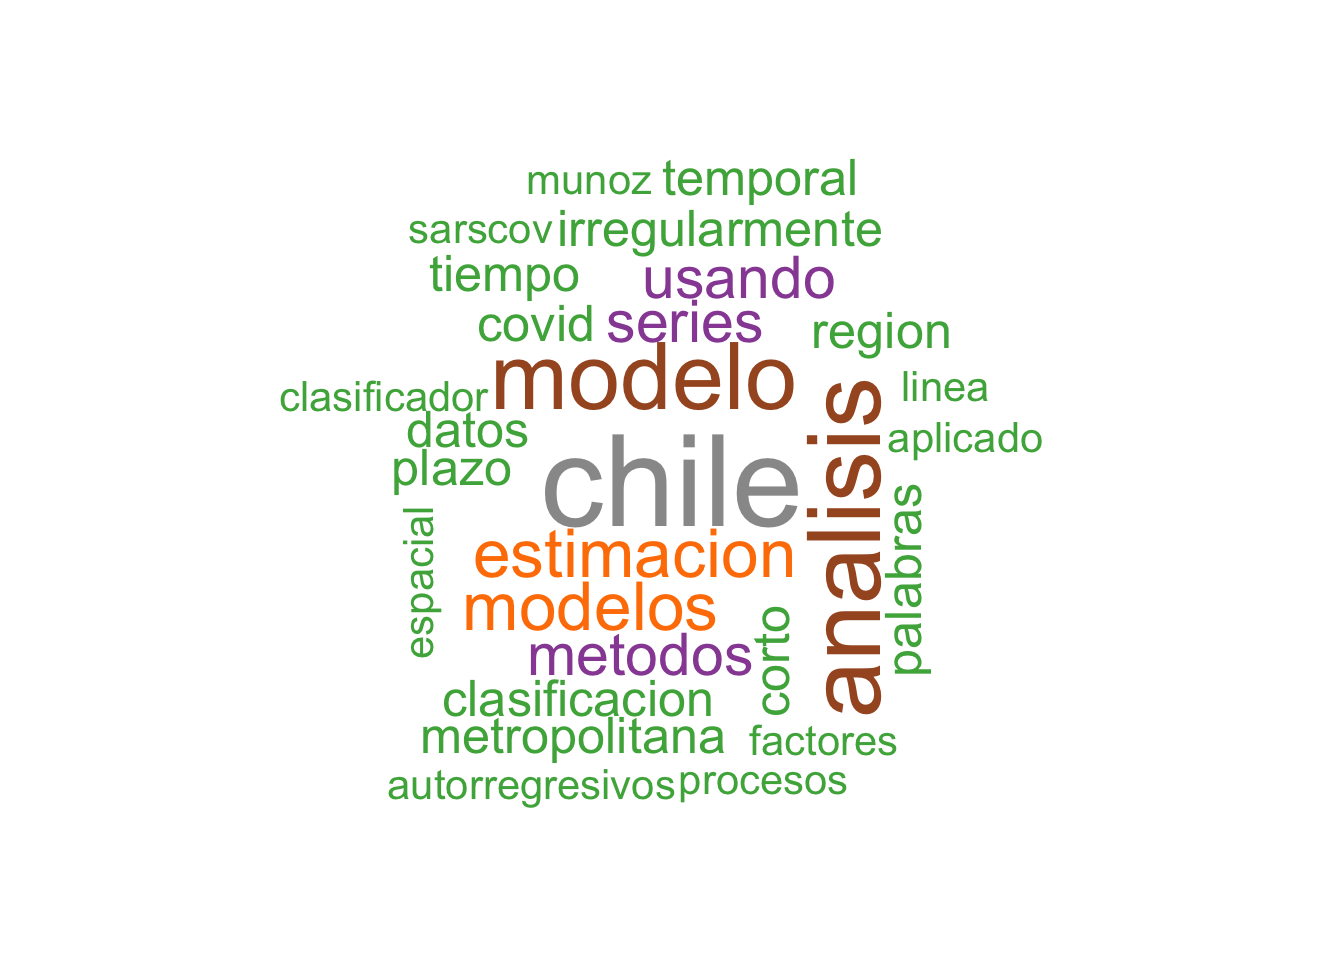
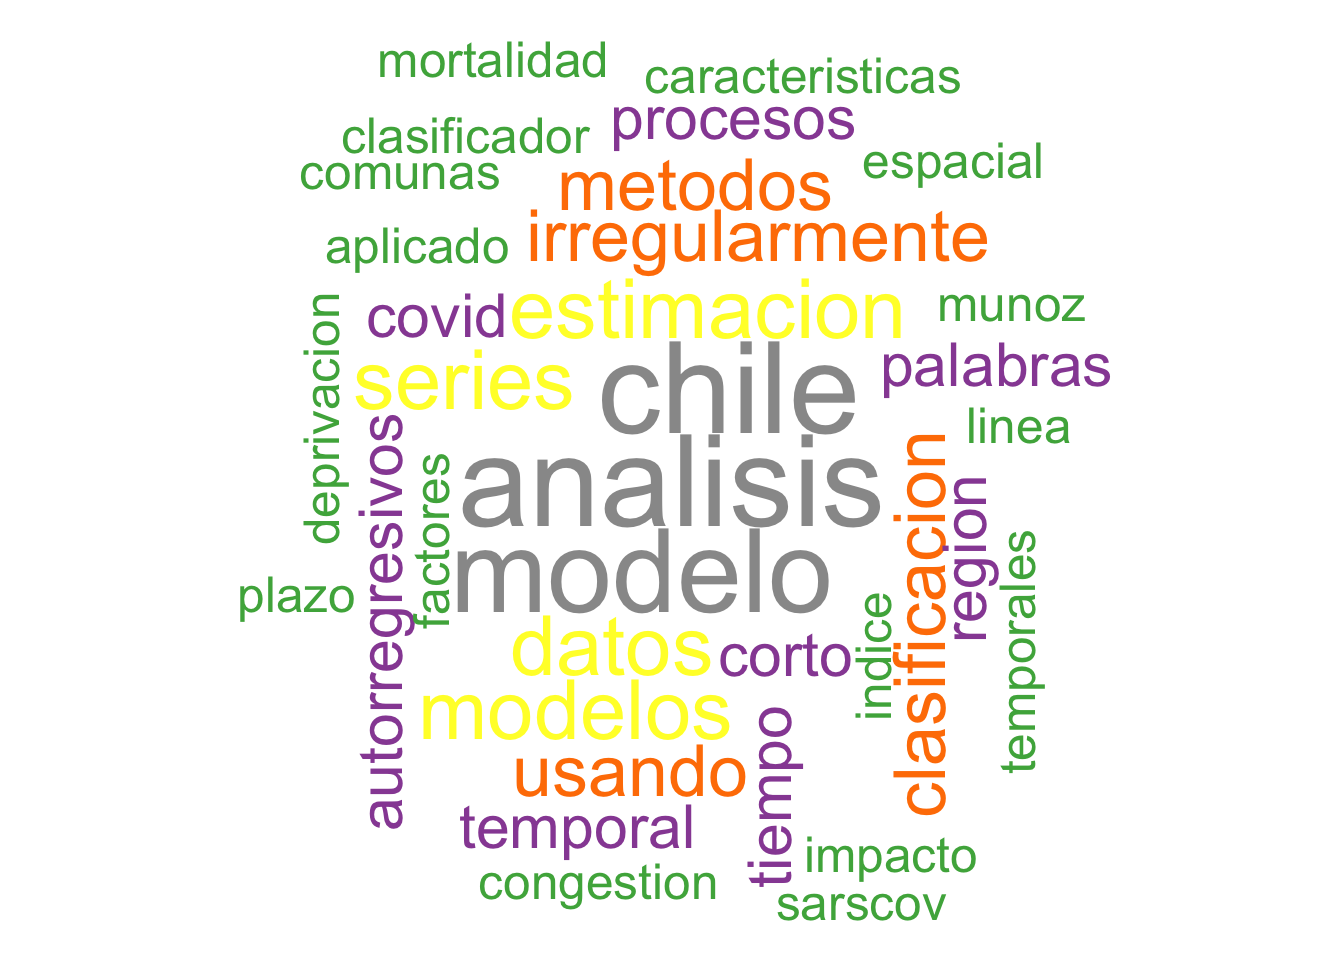
upd.

Changed region(s): [[0.1562, 0.0312, 0.8438, 0.9688]]

diff --git a/docs/alumni/index.html b/docs/alumni/index.html
@@ -240,12 +240,6 @@ background: #00000000;
 <section id="tesis-ingeniería-estadística" class="level1" data-number="1">
 <h1 data-number="1"><span class="header-section-number">1</span> Tesis Ingeniería Estadística</h1>
 <table class="caption-top table">
-<colgroup>
-<col style="width: 3%">
-<col style="width: 25%">
-<col style="width: 61%">
-<col style="width: 9%">
-</colgroup>
 <thead>
 <tr class="header">
 <th>ID</th>
@@ -256,273 +250,303 @@ background: #00000000;
 </thead>
 <tbody>
 <tr class="odd">
-<td>45</td>
+<td>50</td>
+<td>Constanza Wasttson Ferrer</td>
+<td>Evolución de la desigualdad de exposición al material particulado y su impacto estimado en la mortalidad en las comunas de Santiago</td>
+<td>2026</td>
+</tr>
+<tr class="even">
+<td>49</td>
+<td>Bárbara Ocares Pizarro</td>
+<td>Relación entre el Índice de Deprivación y la Razón de Hospitalización por Enfermedades CSAP</td>
+<td>2026</td>
+</tr>
+<tr class="odd">
+<td>48</td>
+<td>Néstor Manríquez Figueroa</td>
+<td>Aplicación de procesos autorregresivos en series temporales regular e irregularmente observadas con datos ausentes</td>
+<td>2026</td>
+</tr>
+<tr class="even">
+<td>47</td>
+<td>Catalina Piutrín Bravo</td>
+<td>Clasificación de objetos astronómicos utilizando características derivadas de path signature</td>
+<td>2026</td>
+</tr>
+<tr class="odd">
+<td>46</td>
 <td>Lesly Dote Guiñez</td>
 <td>Series Temporales Interrumpidas para Evaluar el Impacto de la Pandemia y Post-Pandemia de COVID-19 en Chile</td>
 <td>2025</td>
 </tr>
 <tr class="even">
-<td>44</td>
+<td>45</td>
 <td>Alan Vivar Yancas</td>
 <td>Detección de Cambios Estructurales en Modelos Autorregresivos Streaming Data</td>
 <td>2024</td>
 </tr>
 <tr class="odd">
-<td>43</td>
+<td>44</td>
 <td>Pablo Vicari Ruíz</td>
 <td>Estimación de Parámetros mediante Simulación-Extrapolación en Procesos Autorregresivos cercanos a la Raíz Unitaria</td>
 <td>2024</td>
 </tr>
 <tr class="even">
-<td>42</td>
+<td>43</td>
 <td>Michael Lizama Gaete</td>
 <td>Perfilación de comunas chilenas basada en datos delictuales: un enfoque de machine learning con clustering no supervisado</td>
 <td>2024</td>
 </tr>
 <tr class="odd">
-<td>41</td>
+<td>42</td>
 <td>Guillermo Grandón Rodríguez</td>
 <td>Clasificación de datos astronómicos bajo regresión logística funcional</td>
 <td>2024</td>
 </tr>
 <tr class="even">
-<td>40</td>
+<td>41</td>
 <td>Michelle Vergara Olivares</td>
 <td>Análisis espacial de la mortalidad por enfermedad renal crónica y coronaria y su asociación con la deprivación comunal en Chile</td>
 <td>2023</td>
 </tr>
 <tr class="odd">
-<td>39</td>
+<td>40</td>
 <td>Patricia Tobar Echegoyen</td>
 <td>Modelos predictivos a corto plazo para el número de contagios diario del virus SARS-COV-2 en Chile</td>
 <td>2023</td>
 </tr>
 <tr class="even">
-<td>38</td>
+<td>39</td>
 <td>Estefany Muñoz Ponce</td>
 <td>Análisis Intracomunal de la Deprivación en Chile</td>
 <td>2023</td>
 </tr>
 <tr class="odd">
-<td>37</td>
+<td>38</td>
 <td>Nathaly Garrido Neira</td>
 <td>Evaluación de métodos de estimación bayesiana para clasificación logística con efectos temporales</td>
 <td>2023</td>
 </tr>
 <tr class="even">
-<td>36</td>
+<td>37</td>
 <td>Sebastián Ríos Silva</td>
 <td>Criterios de Selección para Modelos Estacionarios e Irregularmente Observados</td>
 <td>2022</td>
 </tr>
 <tr class="odd">
-<td>35</td>
+<td>36</td>
 <td>Andrés Ayala Muñoz</td>
 <td>Entendiendo las causas y consecuencias del COVID-19: un análisis espacio-temporal</td>
 <td>2022</td>
 </tr>
 <tr class="even">
-<td>34</td>
+<td>35</td>
 <td>Lucas Osses Camblor</td>
 <td>Modelos Autoregresivos Online Bayesianos</td>
 <td>2022</td>
 </tr>
 <tr class="odd">
-<td>33</td>
+<td>34</td>
 <td>Catalina Hernández Martínez</td>
 <td>El brote epidémico de SARS-COV-2 en Santiago</td>
 <td>2021</td>
 </tr>
 <tr class="even">
-<td>32</td>
+<td>33</td>
 <td>Pedro Osorio Meza</td>
 <td>Sistema de monitoreo de la pandemia de Covid-19 en Chile mediante análisis de Change-Point</td>
 <td>2021</td>
 </tr>
 <tr class="odd">
-<td>31</td>
+<td>32</td>
 <td>Valentina Navarro Muñoz</td>
 <td>Métodos de nowcasting en base a los informes epidemiológicos de SARS-CoV-2</td>
 <td>2021</td>
 </tr>
 <tr class="even">
-<td>30</td>
+<td>31</td>
 <td>Darinka Carvajal Miranda</td>
 <td>Análisis Espacio-Temporal de la Tasa de Contagios de Covid-19 en base a la Movilidad en la Región Metropolitana, Chile</td>
 <td>2021</td>
 </tr>
 <tr class="odd">
-<td>29</td>
+<td>30</td>
 <td>Alberto Umanzor Troncoso</td>
 <td>Métodos de estimación de periodo para series de tiempo astronómicas irregularmente espaciadas</td>
 <td>2021</td>
 </tr>
 <tr class="even">
-<td>28</td>
+<td>29</td>
 <td>Jorge Quevedo Álvarez</td>
-<td>Revisión de Métodos para Estimar la Dependencia Temporal de Series de Tiempo Desigualmente Espaciadas</td>
+<td><a href="GuiaTesisPregrado/GuiaJorgeQuevedo.pdf">Revisión de Métodos para Estimar la Dependencia Temporal de Series de Tiempo Desigualmente Espaciadas</a></td>
 <td>2021</td>
 </tr>
 <tr class="odd">
-<td>27</td>
+<td>28</td>
 <td>Matías Cáceres Parravicini</td>
-<td>Métodos de Aprendizaje en línea para Modelos ARIMA</td>
+<td><a href="GuiaTesisPregrado/GuiaMatiasCaceres.pdf">Métodos de Aprendizaje en línea para Modelos ARIMA</a></td>
 <td>2020</td>
 </tr>
 <tr class="even">
-<td>26</td>
+<td>27</td>
 <td>Estefanía Cerda Millán</td>
-<td>Análisis bayesiano de un modelo espacio temporal aplicado a hurtos en la Región Metropolitana de Chile</td>
+<td><a href="GuiaTesisPregrado/GuiaEstefaniaCerda.pdf">Análisis bayesiano de un modelo espacio temporal aplicado a hurtos en la Región Metropolitana de Chile</a></td>
 <td>2020</td>
 </tr>
 <tr class="odd">
-<td>25</td>
+<td>26</td>
 <td>Yerko Carreño Pérez</td>
-<td>Implementación de un algoritmo de clasificación en línea usando técnicas de Ensemble learning</td>
+<td><a href="GuiaTesisPregrado/GuiaYerkoCarreno.pdf">Implementación de un algoritmo de clasificación en línea usando técnicas de Ensemble learning</a></td>
 <td>2020</td>
 </tr>
 <tr class="even">
-<td>24</td>
+<td>25</td>
 <td>Belén Tramolao Mardones</td>
-<td>Determinar factores que expliquen la Percepción de Inseguridad en Chile controlado por las elecciones</td>
+<td><a href="GuiaTesisPregrado/GuiaBelenTramolao.pdf">Determinar factores que expliquen la Percepción de Inseguridad en Chile controlado por las elecciones</a></td>
 <td>2020</td>
 </tr>
 <tr class="odd">
-<td>23</td>
+<td>24</td>
 <td>Camila Guerrero Padilla</td>
-<td>¿Se modifica el efecto de la contaminación del aire sobre la mortalidad diaria cuando hay un brote de influenza estacional?</td>
+<td><a href="GuiaTesisPregrado/GuiaCamilaGuerrero.pdf">¿Se modifica el efecto de la contaminación del aire sobre la mortalidad diaria cuando hay un brote de influenza estacional?</a></td>
 <td>2020</td>
 </tr>
 <tr class="even">
-<td>22</td>
+<td>23</td>
 <td>Sebastián Fuentes Aleuy</td>
-<td>Procesos Gaussianos para mejorar la performance de un clasificador con clases desbalanceadas</td>
+<td><a href="GuiaTesisPregrado/GuiaSebastianFuentes.pdf">Procesos Gaussianos para mejorar la performance de un clasificador con clases desbalanceadas</a></td>
 <td>2019</td>
 </tr>
 <tr class="odd">
-<td>21</td>
+<td>22</td>
 <td>Alejandra Lobos Márquez</td>
-<td>Modelo de Predicción de la Demanda de Gas Natural para el corto y largo plazo en la Región Metropolitana</td>
+<td><a href="GuiaTesisPregrado/GuiaAlejandraLobos.pdf">Modelo de Predicción de la Demanda de Gas Natural para el corto y largo plazo en la Región Metropolitana</a></td>
 <td>2019</td>
 </tr>
 <tr class="even">
-<td>20</td>
+<td>21</td>
 <td>Darling Navarrete Soto</td>
-<td>Evaluación del impacto de la ley Emilia en los accidentes de tránsito usando series de tiempo interrumpidas</td>
+<td><a href="GuiaTesisPregrado/GuiaDarlingNavarrete.pdf">Evaluación del impacto de la ley Emilia en los accidentes de tránsito usando series de tiempo interrumpidas</a></td>
 <td>2019</td>
 </tr>
 <tr class="odd">
-<td>19</td>
+<td>20</td>
 <td>Carolina Olmos Saez</td>
-<td>Clasificación de Streaming Data usando Naïve Bayes</td>
+<td><a href="GuiaTesisPregrado/GuiaCarolinaOlmos.pdf">Clasificación de Streaming Data usando Naïve Bayes</a></td>
 <td>2019</td>
 </tr>
 <tr class="even">
-<td>18</td>
+<td>19</td>
 <td>Katherine Carrasco Vargas</td>
-<td>Análisis Espacial para la determinación de factores que influyen en el reporte de Delitos</td>
+<td><a href="GuiaTesisPregrado/GuiaKatherineCarrasco.pdf">Análisis Espacial para la determinación de factores que influyen en el reporte de Delitos</a></td>
 <td>2019</td>
 </tr>
 <tr class="odd">
-<td>17</td>
+<td>18</td>
 <td>Rodrigo Barraza Cartagena</td>
-<td>Implementación de Series de Tiempo Continuas para la Modelación de Datos Irregularmente Espaciados</td>
+<td><a href="GuiaTesisPregrado/GuiaRodrigoBarraza.pdf">Implementación de Series de Tiempo Continuas para la Modelación de Datos Irregularmente Espaciados</a></td>
 <td>2019</td>
 </tr>
 <tr class="even">
-<td>16</td>
+<td>17</td>
 <td>Angélica Garrido Agurto</td>
-<td>Un modelo temporal para anticipar congestión en el HUAP</td>
+<td><a href="GuiaTesisPregrado/GuiaAngelicaGarrido.pdf">Un modelo temporal para anticipar congestión en el HUAP</a></td>
 <td>2018</td>
 </tr>
 <tr class="odd">
-<td>15</td>
+<td>16</td>
 <td>Patricio Romero Vargas</td>
-<td>Análisis espacial para determinar los factores socioeconómicos tras las denuncias de violencia intrafamiliar</td>
+<td><a href="GuiaTesisPregrado/GuiaPatricioRomero.pdf">Análisis espacial para determinar los factores socioeconómicos tras las denuncias de violencia intrafamiliar</a></td>
 <td>2018</td>
 </tr>
 <tr class="even">
-<td>14</td>
+<td>15</td>
 <td>Paz Gaete Acevedo</td>
-<td>Análisis Espacio Temporal Clásico de las Tasas de “DMCS” en Chile</td>
+<td><a href="GuiaTesisPregrado/GuiaPazGaete.pdf">Análisis Espacio Temporal Clásico de las Tasas de “DMCS” en Chile</a></td>
 <td>2017</td>
 </tr>
 <tr class="odd">
-<td>13</td>
+<td>14</td>
 <td>Nicolás Rondán Flores</td>
-<td>Un modelo para anticipar periodos de congestión en el Hospital de Urgencia Asistencia Pública (HUAP)</td>
+<td><a href="GuiaTesisPregrado/GuiaNicolasRondan.pdf">Un modelo para anticipar periodos de congestión en el Hospital de Urgencia Asistencia Pública (HUAP)</a></td>
 <td>2017</td>
 </tr>
 <tr class="even">
-<td>12</td>
+<td>13</td>
 <td>Camila Sobarzo Tapia</td>
-<td>Evolución de cánceres en Chile bajo un modelo Edad-Período-Cohorte</td>
+<td><a href="GuiaTesisPregrado/GuiaCamilaSobarzo.pdf">Evolución de cánceres en Chile bajo un modelo Edad-Período-Cohorte</a></td>
 <td>2017</td>
 </tr>
 <tr class="odd">
-<td>11</td>
+<td>12</td>
 <td>Carla Lastra Oliva</td>
-<td>Estimación de Provisiones para los Bancos de Chile usando Modelos de Datos de Panel</td>
+<td><a href="GuiaTesisPregrado/GuiaCarlaLastra.pdf">Estimación de Provisiones para los Bancos de Chile usando Modelos de Datos de Panel</a></td>
 <td>2017</td>
 </tr>
 <tr class="even">
-<td>10</td>
+<td>11</td>
 <td>Solange Hidalgo Adriazola</td>
-<td>Identificación de Conglomerados a partir de Características Fenotípicas en Acinetobacter Baumannii</td>
+<td><a href="GuiaTesisPregrado/GuiaSolangeHidalgo.pdf">Identificación de Conglomerados a partir de Características Fenotípicas en Acinetobacter Baumannii</a></td>
 <td>2016</td>
 </tr>
 <tr class="odd">
-<td>9</td>
+<td>10</td>
 <td>Claudia Riquelme Riffo</td>
-<td>Perfiles de Rentabilidad en Seguros de Vida a través de metodologías de Segmentación de Clientes</td>
+<td><a href="GuiaTesisPregrado/GuiaClaudiaRiquelme.pdf">Perfiles de Rentabilidad en Seguros de Vida a través de metodologías de Segmentación de Clientes</a></td>
 <td>2016</td>
 </tr>
 <tr class="even">
-<td>8</td>
+<td>9</td>
 <td>Andrea Quintrilef Almuna</td>
-<td>Análisis Factorial Bayesiano aplicado a la creación de un Índice de Criminalidad para las comunas de la Región Metropolitana</td>
+<td><a href="GuiaTesisPregrado/GuiaAndreaQuintrilef.pdf">Análisis Factorial Bayesiano aplicado a la creación de un Índice de Criminalidad para las comunas de la Región Metropolitana</a></td>
 <td>2016</td>
 </tr>
 <tr class="odd">
-<td>7</td>
+<td>8</td>
 <td>Yanitza Espinoza Neira</td>
-<td>Poder predictivo de la prueba CL-PT con respecto al SIMCE</td>
+<td><a href="GuiaTesisPregrado/GuiaYanitzaEspinoza.pdf">Poder predictivo de la prueba CL-PT con respecto al SIMCE</a></td>
 <td>2016</td>
 </tr>
 <tr class="even">
-<td>6</td>
+<td>7</td>
 <td>Javiera Lizana Aguilera</td>
-<td>Identificación de fuentes contaminantes de agua en Chile usando PMF</td>
+<td><a href="GuiaTesisPregrado/GuiaJavieraLizana.pdf">Identificación de fuentes contaminantes de agua en Chile usando PMF</a></td>
 <td>2016</td>
 </tr>
 <tr class="odd">
-<td>5</td>
+<td>6</td>
 <td>Gerardo Sepúlveda Barrera</td>
-<td>Modelo de Predicción de la Demanda de Cemento para corto y largo plazo en Chile</td>
+<td><a href="GuiaTesisPregrado/GuiaGerardoSepulveda.pdf">Modelo de Predicción de la Demanda de Cemento para corto y largo plazo en Chile</a></td>
 <td>2016</td>
 </tr>
 <tr class="even">
-<td>4</td>
+<td>5</td>
 <td>Katherine Arratia Barrera</td>
-<td>Un modelo dinámico generalizado para predecir el comportamiento del precio del oro y del cobre al corto plazo</td>
+<td><a href="GuiaTesisPregrado/GuiaKatherineArratia.pdf">Un modelo dinámico generalizado para predecir el comportamiento del precio del oro y del cobre al corto plazo</a></td>
 <td>2016</td>
 </tr>
 <tr class="odd">
-<td>3</td>
+<td>4</td>
 <td>Tamara Barahona Bustamante</td>
-<td>Un clasificador delictual aplicado al proceso logístico del área transporte</td>
+<td><a href="GuiaTesisPregrado/GuiaTamaraBarahona.pdf">Un clasificador delictual aplicado al proceso logístico del área transporte</a></td>
 <td>2016</td>
 </tr>
 <tr class="even">
-<td>2</td>
-<td>Valeska Pizarro Correa</td>
-<td>Modelo de estimación de la renta personal para clientes bancarizados</td>
+<td>3</td>
+<td>Daniela Carrasco Montecino</td>
+<td><a href="GuiaTesisPregrado/GuiaDanielaCarrasco.pdf">Creación y validación de un índice de congestión con datos del Hospital de Urgencia Asistencia Pública (HUAP)</a></td>
 <td>2015</td>
 </tr>
 <tr class="odd">
+<td>2</td>
+<td>Valeska Pizarro Correa</td>
+<td><a href="GuiaTesisPregrado/GuiaValeskaPizarro.pdf">Modelo de estimación de la renta personal para clientes bancarizados</a></td>
+<td>2015</td>
+</tr>
+<tr class="even">
 <td>1</td>
 <td>Boris Diaz Castro</td>
-<td>Clasificador óptimo de estrellas del tipo RRab para el sondeo VVV</td>
+<td><a href="GuiaTesisPregrado/GuiaBorisDiaz.pdf">Clasificador óptimo de estrellas del tipo RRab para el sondeo VVV</a></td>
 <td>2015</td>
 </tr>
 </tbody>